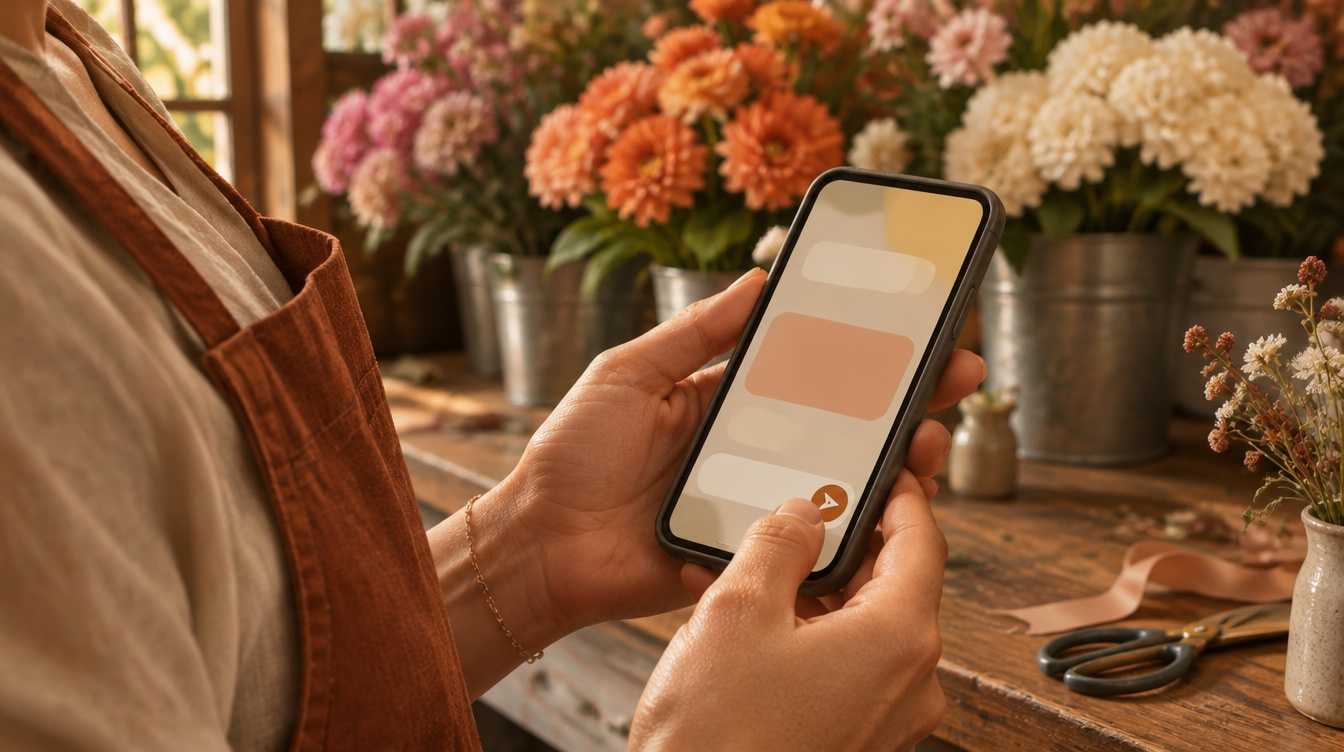
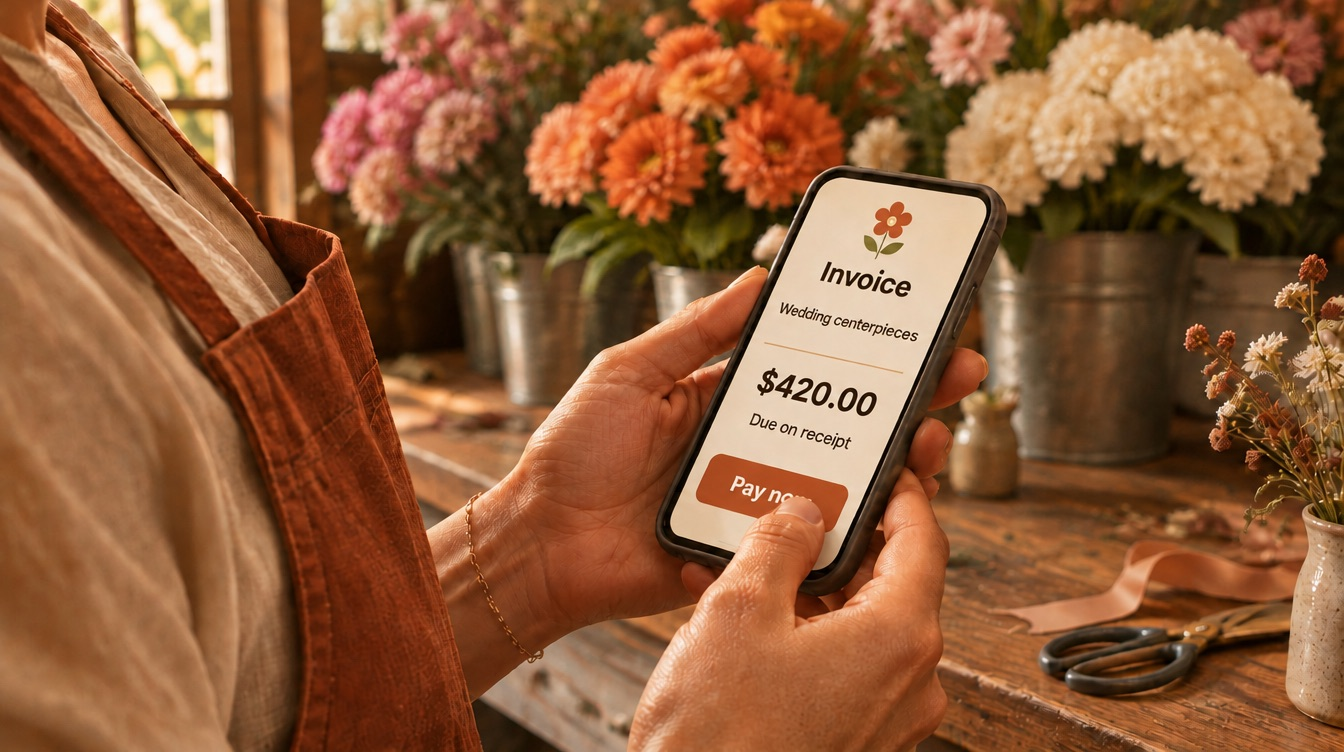
Show an invoice and a secure checkout on the Online page phone photos

diff --git a/scripts/content/48-online-photos.php b/scripts/content/48-online-photos.php
@@ -23,10 +23,10 @@ require_once dirname(__DIR__) . '/setup/_helpers.php';
 // Key => [file, width, height, alt text].
 $photos = [
   'hero' => ['hero.jpg', 1024, 688, 'A business owner packs a handmade mug into a shipping box beside an open laptop.'],
-  'links' => ['links.jpg', 1344, 752, 'A florist sends a payment link from a phone in her workshop.'],
+  'links' => ['links.jpg', 1344, 752, 'A florist opens an invoice for wedding centerpieces on her phone, ready to pay.'],
   'checkout' => ['checkout.jpg', 1344, 752, 'A laptop on a shop counter shows an online store checkout page.'],
   'developer' => ['developer.jpg', 1344, 752, 'A developer works on a website at a desk with two monitors.'],
-  'security' => ['security.jpg', 1024, 688, 'A customer at home pays on a phone, a card resting on her knee.'],
+  'security' => ['security.jpg', 1024, 688, 'A customer at home taps Pay on a secure checkout screen, a card resting on her knee.'],
 ];
 
 $file_system = \Drupal::service('file_system');

diff --git a/scripts/content/assets/online/README.md b/scripts/content/assets/online/README.md
@@ -1,6 +1,6 @@
 # Online page photos
 
-Five photos for `/solutions/online`, generated on 2026-11-19 with Higgsfield (model `gpt_image_2_6`) and converted to JPEG. They are illustrations, not photographs of real customers, staff or businesses: the people in them do not exist. Screens show abstract shapes with no readable text, and nothing carries a brand.
+Five photos for `/solutions/online`, generated on 2026-11-19 with Higgsfield (model `gpt_image_2_6`) and converted to JPEG. They are illustrations, not photographs of real customers, staff or businesses: the people in them do not exist. Most screens show abstract shapes. Two show sample screens: `links.jpg` an invoice and `security.jpg` a secure checkout. The amounts on them ($420.00, $48.00) and the card ending 4242 are illustrations, not prices or real card details. Nothing carries a brand.
 
 Each was prompted for the site's palette (clay, amber, cream, warm wood) in warm light, so no filter is applied on the page.
 
